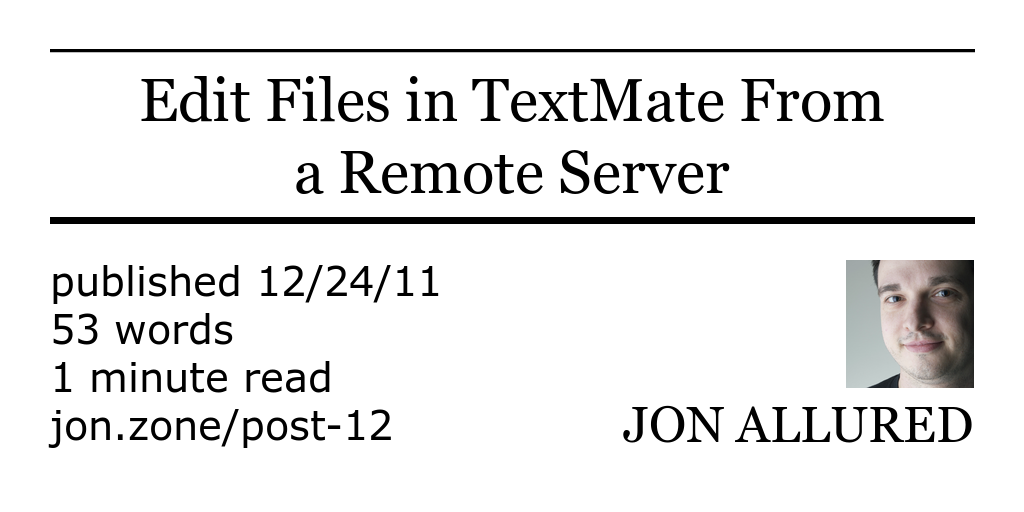
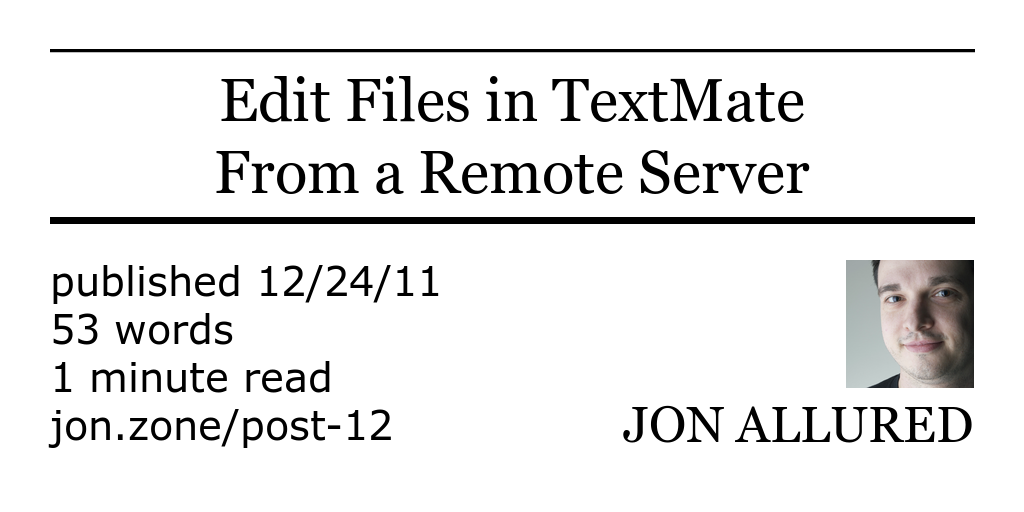
Improve social share image generation

Changed region(s): [[0.125, 0.125, 0.875, 0.25], [0.2188, 0.2812, 0.8125, 0.375]]

diff --git a/spec/lib/post_parser_spec.rb b/spec/lib/post_parser_spec.rb
@@ -4,32 +4,126 @@ require_relative '../../lib/post_parser'
 
 RSpec.describe PostParser do
   describe '.read' do
-    it 'returns options' do
-      path = 'source/posts/2016-09-16-adding-additional-virtual-hosts-to-a-digital-ocean-server.html.md'
-      options = PostParser.read(path)
+    context 'with a single line title' do
+      it 'returns standard options' do
+        options = PostParser.read(
+          'source/posts/2020-12-23-dealing-with-rotten-links.html.md'
+        )
 
-      expect(options).to eq(
-        output_path: 'source/images/post-40/social-share.png',
-        published_at: Date.parse('2016-09-16'),
-        reading_time: 2,
-        shrt_url: 'jon.zone/post-40',
-        title_parts: ['Adding Additional Virtual Hosts to', 'a Digital Ocean Server'],
-        word_count: 185
-      )
+        expect(options).to eq(
+          output_path: 'source/images/post-41/social-share.png',
+          published_at: Date.parse('2020-12-23'),
+          reading_time: 3,
+          shrt_url: 'jon.zone/post-41',
+          title_parts: ['Dealing With Rotten Links'],
+          word_count: 524
+        )
+      end
     end
 
-    it 'returns options' do
-      path = 'source/posts/2020-12-23-dealing-with-rotten-links.html.md'
-      options = PostParser.read(path)
+    context 'with a double line title' do
+      it 'returns options with two title parts' do
+        options = PostParser.read(
+          'source/posts/2016-09-16-adding-additional-virtual-hosts-to-a-digital-ocean-server.html.md'
+        )
 
-      expect(options).to eq(
-        output_path: 'source/images/post-41/social-share.png',
-        published_at: Date.parse('2020-12-23'),
-        reading_time: 3,
-        shrt_url: 'jon.zone/post-41',
-        title_parts: ['Dealing With Rotten Links'],
-        word_count: 524
-      )
+        expect(options[:title_parts]).to eq(
+          [
+            'Adding Additional Virtual Hosts to',
+            'a Digital Ocean Server'
+          ]
+        )
+      end
+    end
+
+    context 'with a title that has a semi colon' do
+      it 'returns options with the title parts split on that semi colon' do
+        options = PostParser.read(
+          'source/posts/2012-01-31-the-simpleton-pattern-when-to-include-when-to-extend.html.md'
+        )
+
+        expect(options[:title_parts]).to eq(
+          [
+            'The Simpleton Pattern;',
+            'When to Include, When to Extend'
+          ]
+        )
+      end
+    end
+
+    context 'with a title that has a semi and is too long' do
+      it 'returns options with a last title part thats been snipped' do
+        options = PostParser.read(
+          'source/posts/2012-01-12-delayed-job-hits-3-marston-on-deprecating-legacy-code.html.md'
+        )
+
+        expect(options[:title_parts]).to eq(
+          [
+            'Delayed Job Hits 3.0;',
+            'Marston on Deprecating Legacy...'
+          ]
+        )
+      end
+    end
+
+    context 'with a title that has a semi colon and the first part is too long' do
+      it 'returns options with title parts that include a first part that has been snipped' do
+        options = PostParser.read(
+          'source/posts/2011-12-19-multiple-carets-in-textmate-2-default-scope.html.md'
+        )
+
+        expect(options[:title_parts]).to eq(
+          [
+            'Multiple Carets in TextMate...;',
+            'Default Scope'
+          ]
+        )
+      end
+    end
+
+    context 'with a really long title' do
+      it 'returns options with a final title part that has been snipped' do
+        options = PostParser.read(
+          'source/posts/2011-08-08-keeping-a-live-website-in-sync-with-a-local-version-part-one.html.md'
+        )
+
+        expect(options[:title_parts]).to eq(
+          [
+            'Keeping a Live Website in',
+            'Sync With a Local Version...'
+          ]
+        )
+      end
+    end
+
+    context 'with a medium title' do
+      it 'returns options with two title parts' do
+        options = PostParser.read(
+          'source/posts/2011-11-28-playing-around-with-content-editable-in-rails.html.md'
+        )
+
+        expect(options[:title_parts]).to eq(
+          [
+            'Playing Around With Content',
+            'Editable in Rails'
+          ]
+        )
+      end
+    end
+
+    context 'with a long title ending in a period' do
+      it 'returns options that have a final title part with that trailing period removed' do
+        options = PostParser.read(
+          'source/posts/2012-02-06-klabnik-on-moving-from-sinatra-to-rails-and-acceptance-vs-integration-tests.html.md'
+        )
+
+        expect(options[:title_parts]).to eq(
+          [
+            'Klabnik on Moving From Sinatra',
+            'to Rails and Acceptance vs...'
+          ]
+        )
+      end
     end
   end
 end

diff --git a/lib/post_parser.rb b/lib/post_parser.rb
@@ -4,35 +4,143 @@ require 'yaml'
 require 'date'
 require 'active_support/all'
 
-class PostParser
-  AVERAGE_WORDS_PER_MINUTE = 180
-
-  def self.read(path)
-    data = File.read(path)
-    _, yaml, body = data.split('---')
-    front_matter = YAML.safe_load(yaml)
-    word_count = body.split.size
-
-    compute_options(path, word_count, front_matter)
+class TitleParser
+  def self.parse(title)
+    new(title).parse
   end
 
-  def self.compute_options(path, word_count, front_matter)
-    id = front_matter['id']
-    reading_time = (word_count / AVERAGE_WORDS_PER_MINUTE.to_f).ceil
+  attr_reader :title
 
+  def initialize(title)
+    @title = title
+  end
+
+  def parse
+    if title.include?(';')
+      parse_with_semi
+    else
+      simple_parse
+    end
+  end
+
+  private
+
+  def group_title_words
+    words = title.split
+
+    if words.length > 5 && words.length < 10
+      words.in_groups(2, false)
+    else
+      words.in_groups_of(5, false)
+    end
+  end
+
+  def clean_parts(grouped)
+    if grouped.count > 2
+      first, last = grouped.take(2)
+      cutoff = last.length + 2
+      [first, maybe_snip_part(last, cutoff, force: true)]
+    else
+      cutoff = 35
+
+      grouped.map do |part|
+        maybe_snip_part(part, cutoff)
+      end
+    end
+  end
+
+  def simple_parse
+    word_groups = group_title_words
+    grouped = word_groups.map { |group| group.join(' ') }
+    clean_parts(grouped)
+  end
+
+  def parse_with_semi
+    first, last = title.split('; ').take(2)
+    first << ';'
+    parts = [first, last]
+    cutoff = 31
+
+    parts.map do |part|
+      maybe_snip_part(part, cutoff)
+    end
+  end
+
+  def maybe_snip_part(part, cutoff, force: false)
+    return part unless part.length > cutoff || force
+
+    punctuation_list = [',', ';', '.']
+    offset = punctuation_list.include?(part.last) ? 4 : 3
+    end_index = cutoff - offset
+    suffix = part.last == ';' ? ';' : ''
+
+    "#{part[0..end_index].strip}...#{suffix}"
+  end
+end
+
+class PostOptions
+  AVERAGE_WORDS_PER_MINUTE = 180
+
+  attr_reader :path, :front_matter, :body
+
+  def self.as_hash(path, front_matter, body)
+    new(path, front_matter, body).as_hash
+  end
+
+  def initialize(path, front_matter, body)
+    @path = path
+    @front_matter = front_matter
+    @body = body
+  end
+
+  def as_hash
     {
-      output_path: "source/images/post-#{id}/social-share.png",
-      published_at: Date.parse(path[13, 10]),
+      output_path: output_path,
+      published_at: published_at,
       reading_time: reading_time,
-      shrt_url: "jon.zone/post-#{id}",
-      title_parts: compute_title_parts(front_matter['title']),
+      shrt_url: shrt_url,
+      title_parts: title_parts,
       word_count: word_count
     }
   end
 
-  def self.compute_title_parts(title)
-    split_up = title.split
-    grouped = split_up.in_groups_of(5, false)
-    grouped.map { |group| group.join(' ') }
+  private
+
+  def id
+    front_matter['id']
+  end
+
+  def output_path
+    "source/images/post-#{id}/social-share.png"
+  end
+
+  def published_at
+    Date.parse(path[13, 10])
+  end
+
+  def reading_time
+    (word_count / AVERAGE_WORDS_PER_MINUTE.to_f).ceil
+  end
+
+  def shrt_url
+    "jon.zone/post-#{id}"
+  end
+
+  def title_parts
+    TitleParser.parse(front_matter['title'])
+  end
+
+  def word_count
+    body.split.size
+  end
+end
+
+class PostParser
+  def self.read(path)
+    data = File.read(path)
+    _, yaml, body = data.split('---')
+    front_matter = YAML.safe_load(yaml)
+
+    PostOptions.as_hash(path, front_matter, body)
   end
 end

diff --git a/lib/social_image.rb b/lib/social_image.rb
@@ -78,8 +78,13 @@ class SocialImage
 
   private
 
+  def two_line_title?
+    options[:title_parts].size == 2
+  end
+
   def create_image
-    @social_image = Magick::Image.new(WIDTH, HEIGHT) do |image|
+    image_height = two_line_title? ? HEIGHT : HEIGHT - 80
+    @social_image = Magick::Image.new(WIDTH, image_height) do |image|
       image.background_color = WHITE
       image.format = 'png'
     end
@@ -112,7 +117,8 @@ class SocialImage
 
   def draw_bottom_line
     header_line = HeaderLine.create(6)
-    header_line.line(50, 220, WIDTH - 50, 220)
+    y_offset = two_line_title? ? 220 : 150
+    header_line.line(50, y_offset, WIDTH - 50, y_offset)
     header_line.draw(social_image)
   end
 
@@ -128,9 +134,10 @@ class SocialImage
   def draw_meta
     meta_lines = compute_meta
     pointsize = MetaText::POINTSIZE
+    y_offset = two_line_title? ? 260 : 190
 
     meta_lines.each_with_index do |line, i|
-      offset = (pointsize * i * 1.2) + 260
+      offset = (pointsize * i * 1.2) + y_offset
       MetaText.generate.annotate(social_image, WIDTH / 2, pointsize, 50, offset, line)
     end
   end
@@ -138,18 +145,19 @@ class SocialImage
   def draw_headshot
     headshot_size = HEIGHT / 4
     append_image = Magick::Image.read('source/images/headshot.png').first.resize_to_fit(headshot_size)
-    y_offset = 260
+    y_offset = two_line_title? ? 260 : 190
     social_image.composite!(append_image, (WIDTH - headshot_size - 50), y_offset, Magick::OverCompositeOp)
   end
 
   def draw_author
     author = 'Jon Allured'.upcase
-    AuthorText.generate.annotate(social_image, WIDTH, AuthorText::POINTSIZE, 50, 400, author)
+    y_offset = two_line_title? ? 400 : 330
+    AuthorText.generate.annotate(social_image, WIDTH, AuthorText::POINTSIZE, 50, y_offset, author)
   end
 
   def write_image
     path = options[:output_path]
-    FileUtils.mkdir(File.dirname(path))
+    FileUtils.mkdir_p(File.dirname(path))
     social_image.write(path)
   end
 end
